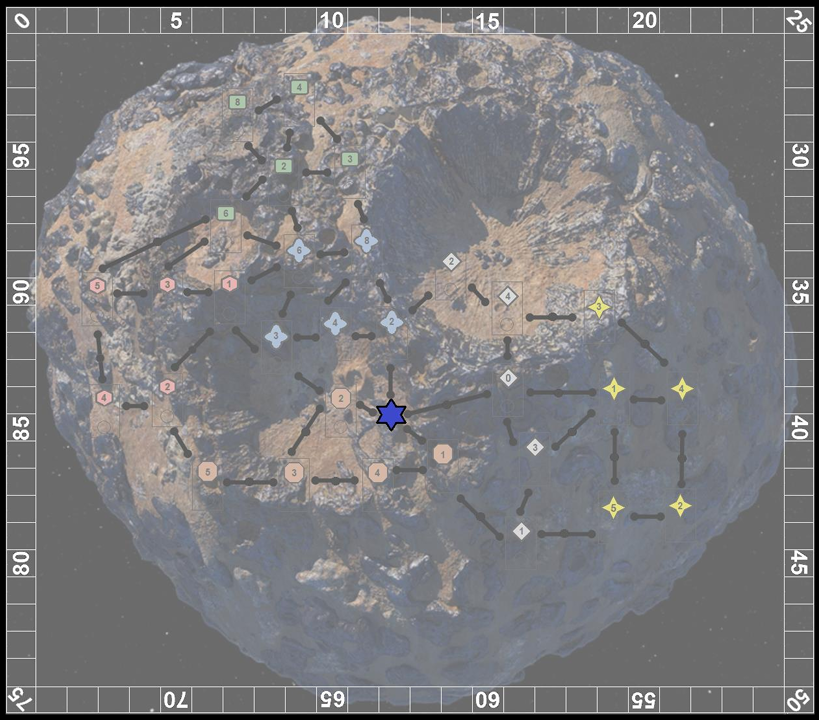
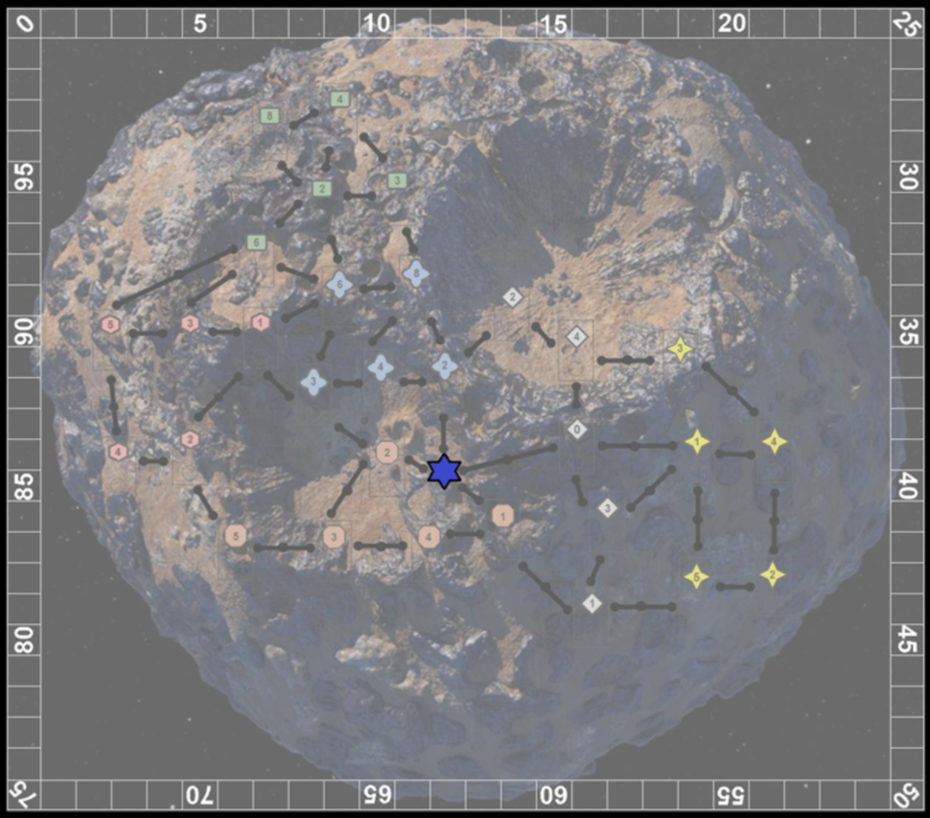
t

diff --git a/jeu/ihm/PanelCarte.java b/jeu/ihm/PanelCarte.java
@@ -57,7 +57,7 @@ public class PanelCarte extends JPanel
 
 		this.g2 = (Graphics2D) g;
 
-		g2.drawImage(this.image, 0,0, this);
+		g2.drawImage(this.image, 20,0, this);
 
 
 		this.g2.setStroke (new BasicStroke (2.0f));
@@ -67,17 +67,20 @@ public class PanelCarte extends JPanel
 
 		for(Sommet s : ctrl.getTabSommet())
 		{
-			int x = s.getX();
-			int y = s.getY();
+			if(s.getNomCoul() != null) //Si pas le départ
+			{
+				int x = s.getX();
+				int y = s.getY();
 
-			this.g2.setStroke (new BasicStroke (2.0f));
+				this.g2.setStroke (new BasicStroke (2.0f));
 
-			this.g2.setColor( new Color(000060) );
+				this.g2.setColor( new Color(000060) );
 
-			this.g2.drawOval( x , y , this.RAYON, this.RAYON );
-			this.g2.fillOval( x , y , this.RAYON, this.RAYON );
+				this.g2.drawOval( x , y , this.RAYON, this.RAYON );
+				this.g2.fillOval( x , y , this.RAYON, this.RAYON );
 
-			this.g2.drawString( s.getNumSom() + s.getNomCoul(), x-10, y-5 );
+				this.g2.drawString( s.getNumSom() + s.getNomCoul(), x-10, y-5 );
+			}
 		}
 
 		for(Route r : ctrl.getTabRoute())
